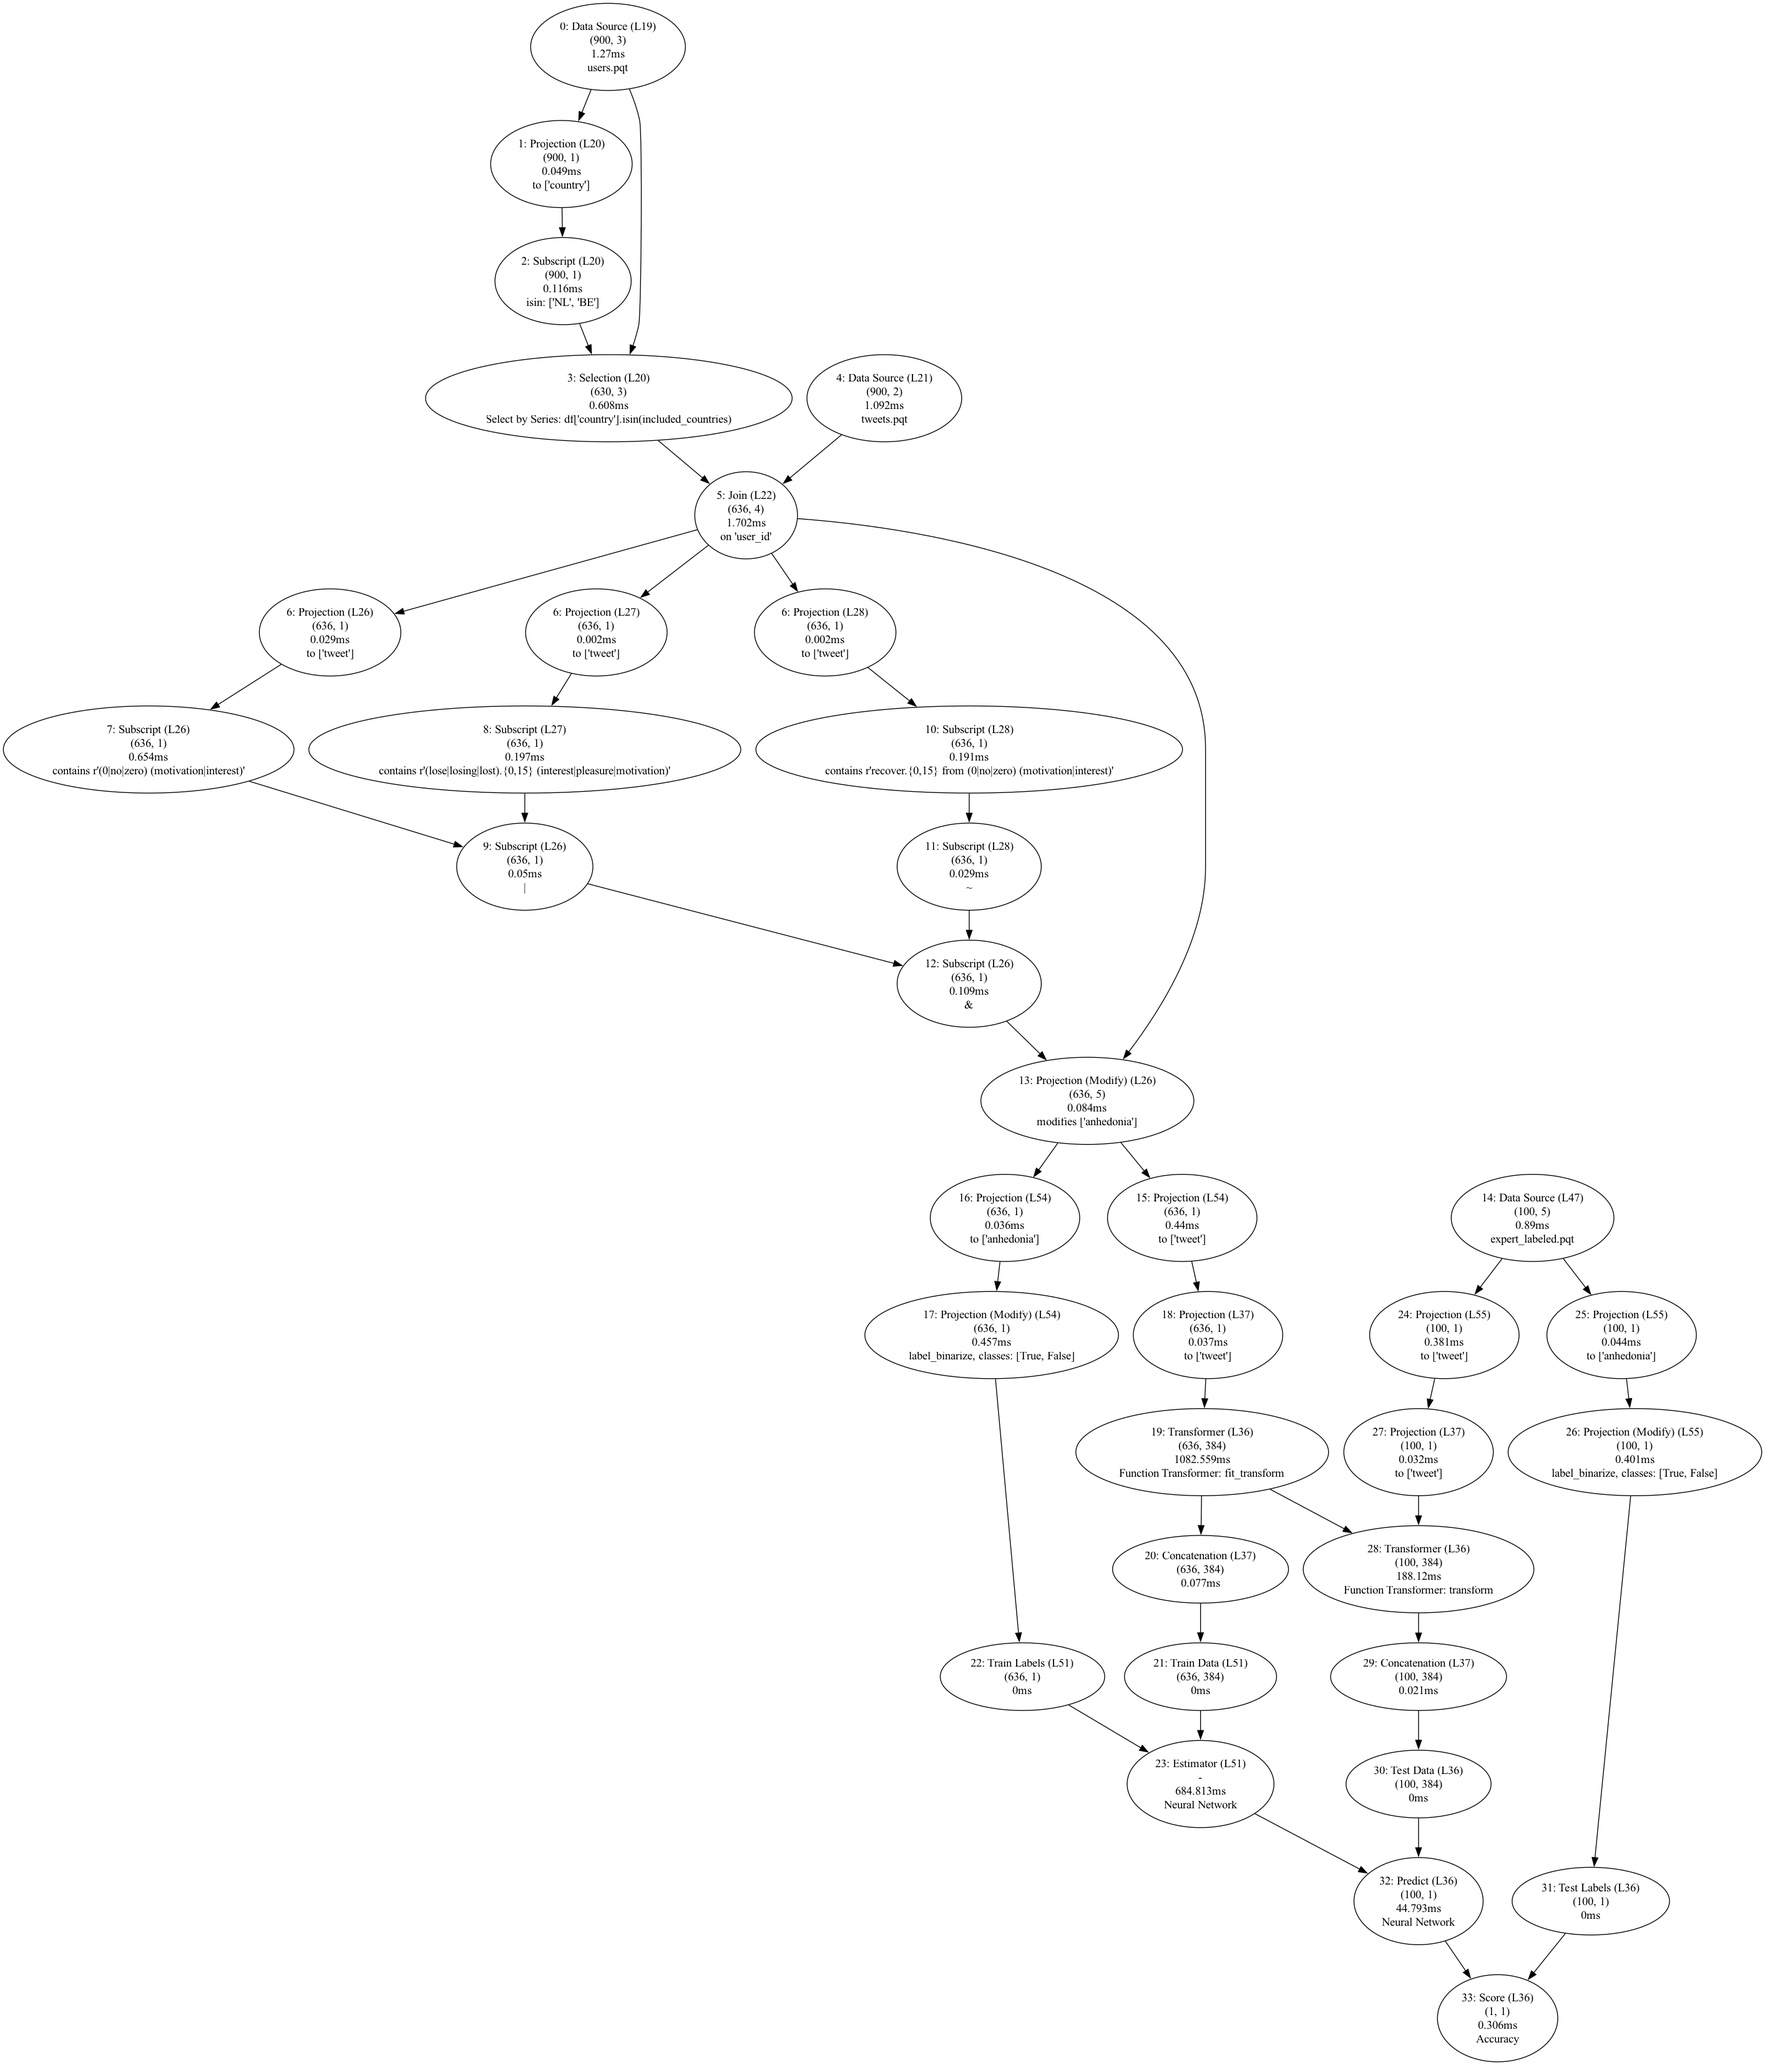
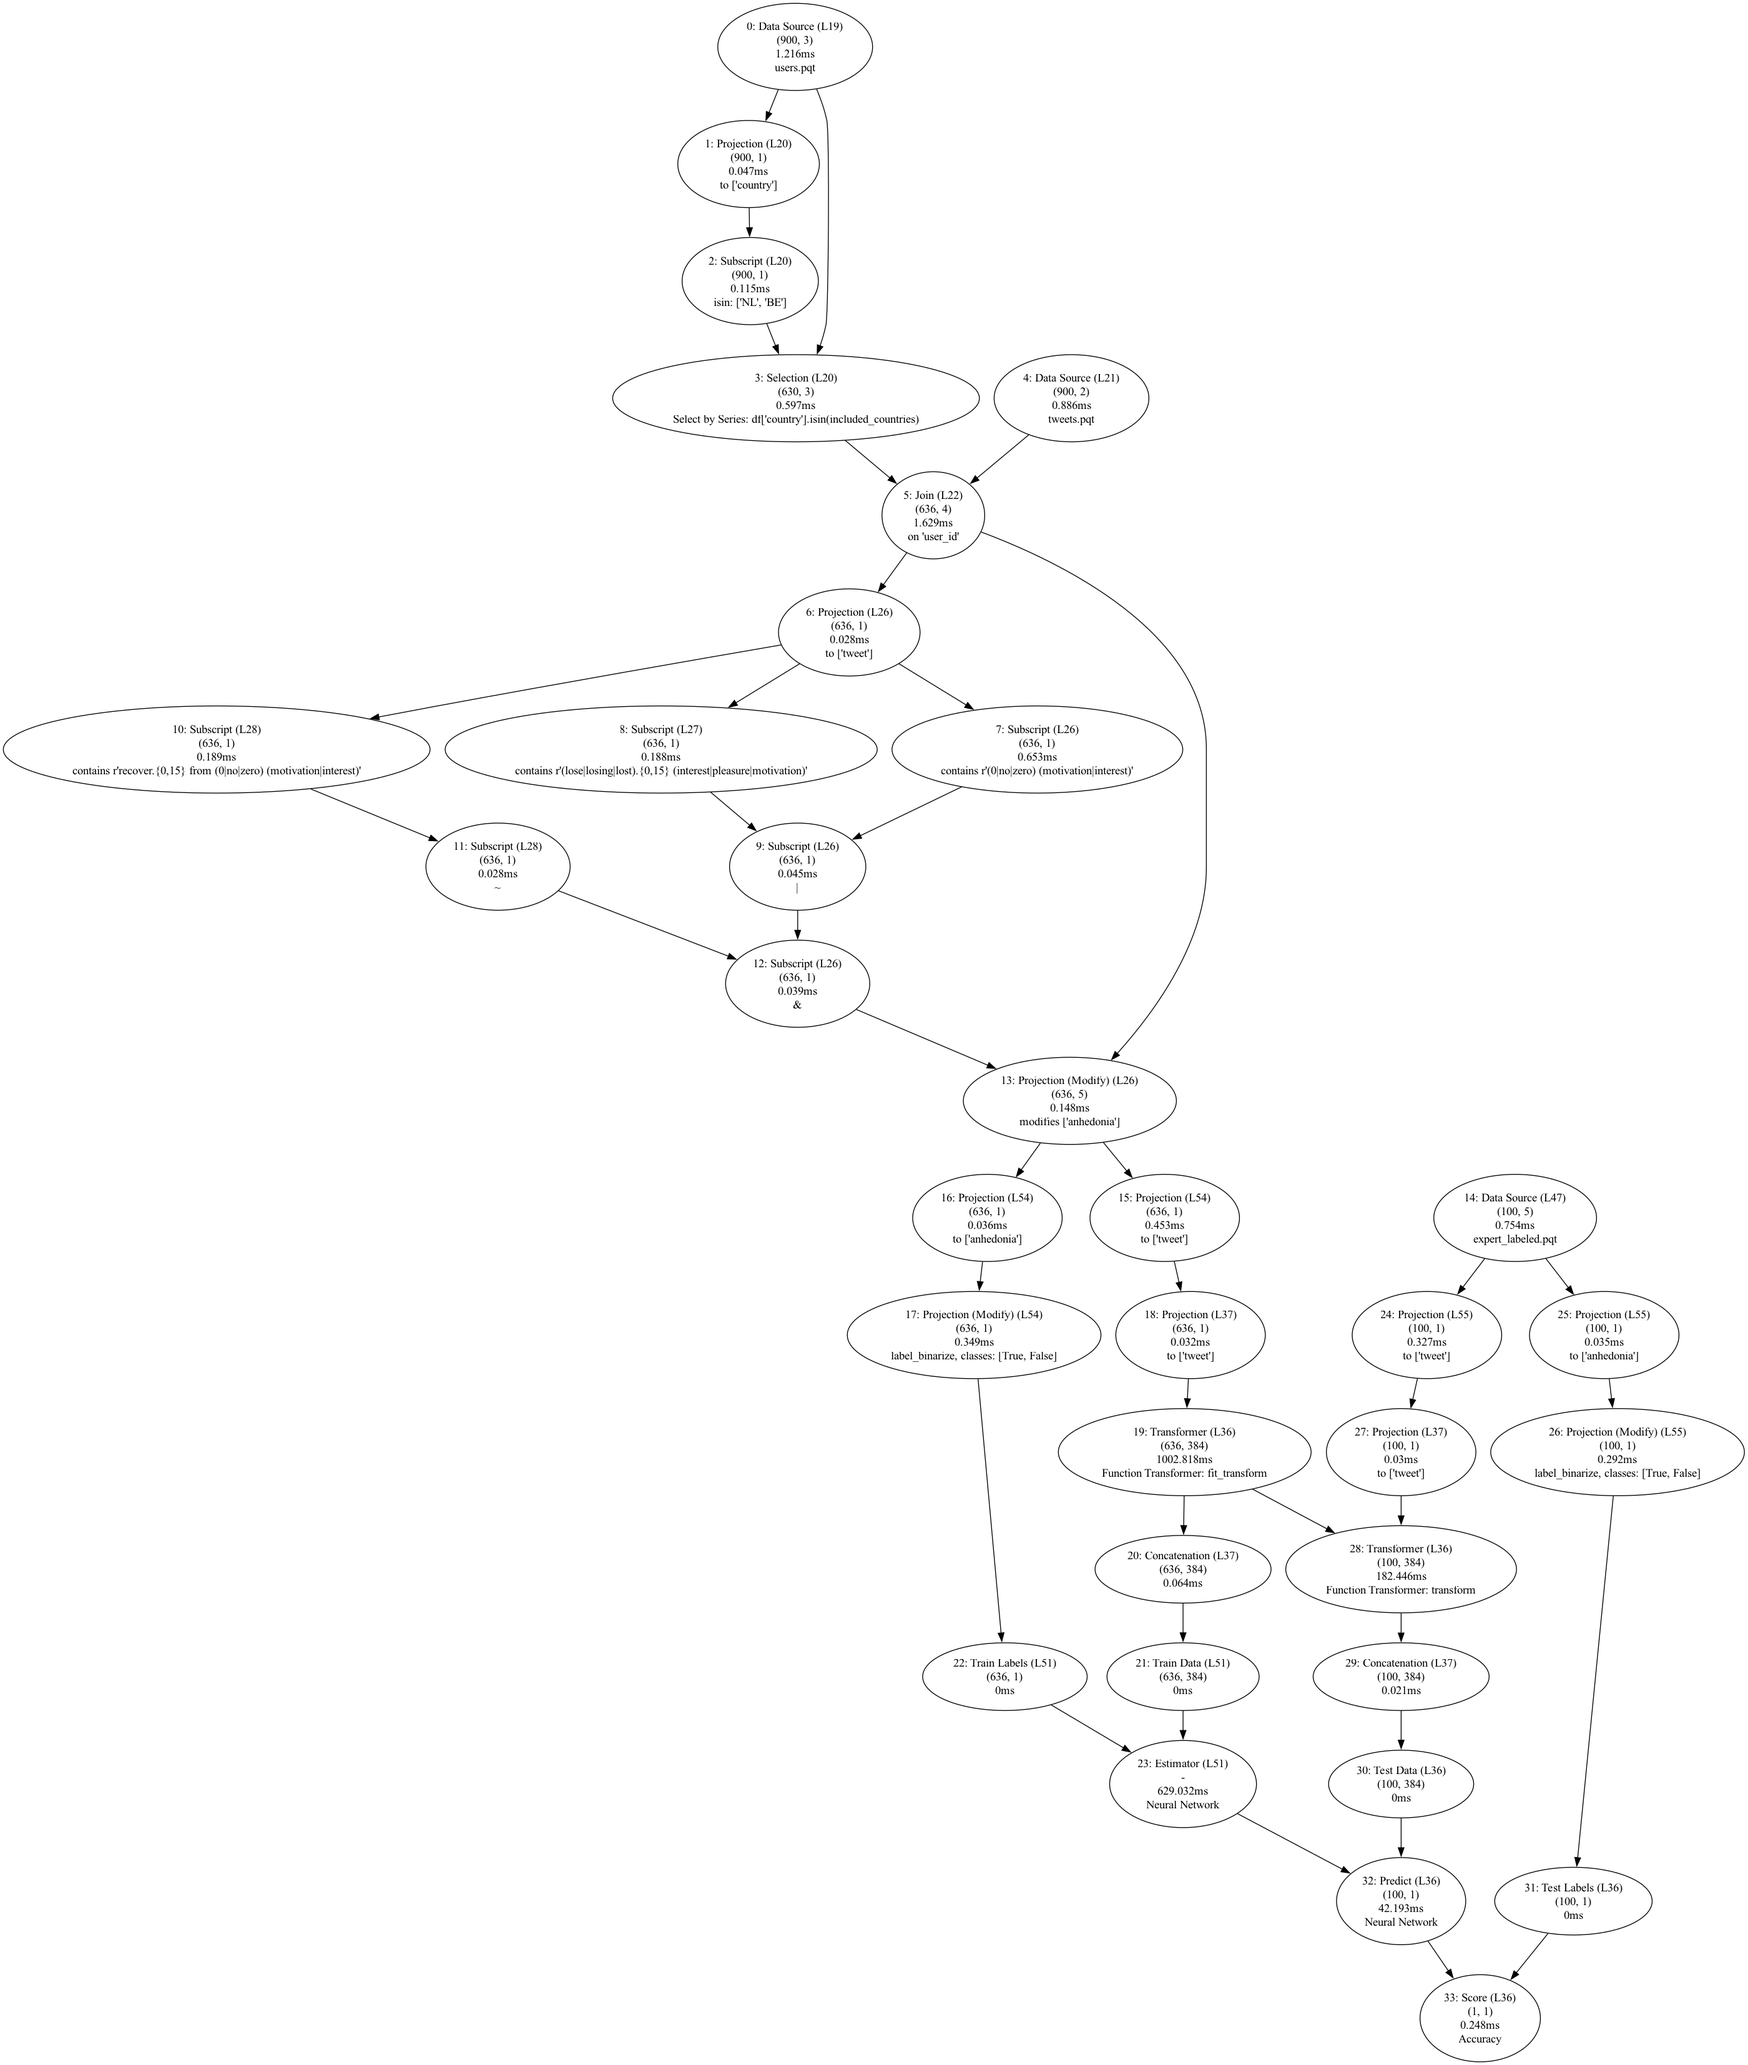
Update example_pipeline tests

diff --git a/test/example_pipelines/test_anhedonia.py b/test/example_pipelines/test_anhedonia.py
@@ -26,7 +26,7 @@ def test_instrumented_ml_py_pipeline_runs():
     """
     dag = run_and_assert_all_op_outputs_inspected(ANHEDONIA_ML_PY, None, ANHEDONIA_ML_PNG,
                                                   [custom_monkeypatching])
-    assert len(dag) == 36
+    assert len(dag) == 34
 
 
 def test_llm_py_pipeline_runs():
@@ -47,4 +47,4 @@ def test_instrumented_llm_py_pipeline_runs():
     """
     dag = run_and_assert_all_op_outputs_inspected(ANHEDONIA_LLM_PY, None, ANHEDONIA_LLM_PNG,
                                                   [custom_monkeypatching])
-    assert len(dag) == 36
+    assert len(dag) == 34

diff --git a/test/example_pipelines/test_healthcare.py b/test/example_pipelines/test_healthcare.py
@@ -55,4 +55,4 @@ def test_instrumented_py_pipeline_runs():
     """
     dag = run_and_assert_all_op_outputs_inspected(HEALTHCARE_PY, ["age_group", "race"], HEALTHCARE_PNG,
                                                   [custom_monkeypatching])
-    assert len(dag) == 52
+    assert len(dag) == 50

diff --git a/test/example_pipelines/test_compas.py b/test/example_pipelines/test_compas.py
@@ -21,4 +21,4 @@ def test_instrumented_py_pipeline_runs():
     Tests whether the pipeline works with instrumentation
     """
     dag = run_and_assert_all_op_outputs_inspected(COMPAS_PY, ['sex', 'race'], COMPAS_PNG)
-    assert len(dag) == 46
+    assert len(dag) == 45
